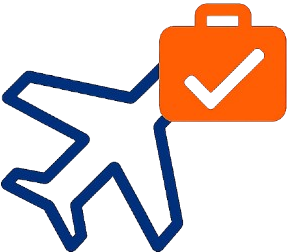
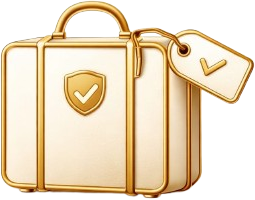
modificaiton something new

diff --git a/src/Pages/Home/Banner.jsx b/src/Pages/Home/Banner.jsx
@@ -114,13 +114,13 @@ const Banner = () => {
         <p className=" lg:text-2xl text-[15px] lg:pt-14">
           {t("show_short_description")}
         </p>
-        <h1 className="lg:text-4xl pb-3 text-white text-[16px] font-semibold lg:pb-10 lg:pt-4 pt-3 ">
+        {/* <h1 className="lg:text-4xl pb-3 text-white text-[16px] font-semibold lg:pb-10 lg:pt-4 pt-3 ">
           {t("banner_tagline")}
-        </h1>
+        </h1> */}
         {showCreateRequestButton && (
           <button
             onClick={handleButtonClick}
-            className=" md:mt-5 bg-[#FF6600] hover:bg-[#e55600] text-white text-[18px] md:text-[24px] font-medium py-[10px] md:py-[12px] px-[28px] md:px-[36px] rounded-full  max-w-[80%] md:w-[300px] lg:w-[300px] mx-auto"
+            className=" mt-2 md:mt-5 bg-[#FF6600] hover:bg-[#e55600] text-white text-[18px] md:text-[24px] font-medium py-[10px] md:py-[12px] px-[48px] md:px-[36px] rounded-full  max-w-[80%] md:w-[300px] lg:w-[300px] mx-auto"
           >
             {t("create_request")}
           </button>

diff --git a/src/Layout/Admin/AdminDashboardLayout.jsx b/src/Layout/Admin/AdminDashboardLayout.jsx
@@ -226,6 +226,7 @@ export default function AdminDashboardLayout() {
     ws.current.onerror = () => {};
     ws.current.onclose = () => {};
 
+  
     return () => {
       if (ws.current) ws.current.close();
     };
